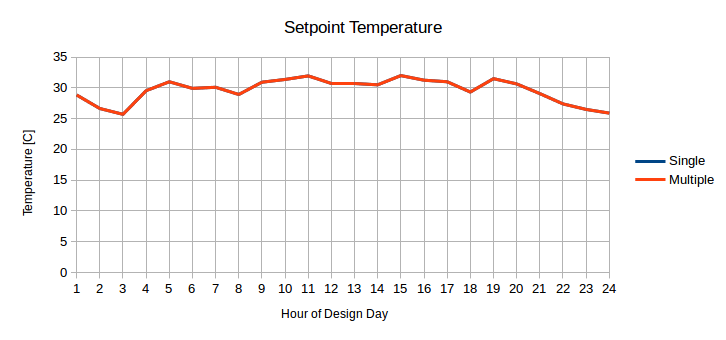
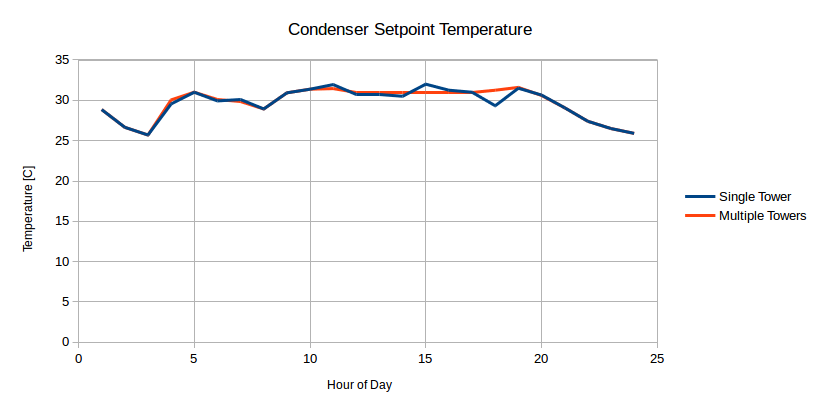
Update idf for multiple towers; update design doc with discussion for multiple towers

Changed region(s): [[0.0303, 0.0588, 1.0, 0.8824], [0.3636, 0.9118, 0.5455, 0.9706]]

diff --git a/design/FY2015/CondenserResetWithMultipleTowers.md b/design/FY2015/CondenserResetWithMultipleTowers.md
@@ -180,9 +180,27 @@ I am moving forward assuming the non-ideal condenser setpoint is working fine fo
 
 ## Modifications and testing of the ideal condenser setpoint manager
 
-I performed the source code modifications to allow multiple towers.  The changes were as anticipated and described above.  Once implemented, I modified the test file to include multiple towers and looked at the resulting setpoint.  The setpoint varies throughout the day, and because both towers are equivalent in performance characteristics, the resulting performance-based-setpoint reset is the same:
+I performed the source code modifications to allow multiple towers.  The changes were as anticipated and described above.  Once implemented, I modified the test file to include multiple towers and looked at the resulting setpoint asd well as some other values.
+
+Start with the setpoint:
 
 ![](CondenserResetWithMultipleTowers-FigureIdealCondenserSetpoint.png)
+
+Note how the setpoint differs, but overall has the same behavior during the day.  Next the tower mass flow rate:
+
+![](CondenserResetWithMultipleTowers-FigureIdealCondenserMassFlowRate.png)
+
+Note that the second tower doesn't come on until the middle of the day.  During the off-peak time, the single tower runs to meet the load.  During the peak time, both towers come to full capacity and the total adds together to be very close to the single tower.  Next the tower heat transfer rate:
+
+![](CondenserResetWithMultipleTowers-FigureIdealCondenserHeatTransfer.png)
+
+The total tower heat transfer rate is very similar during the day, with the second tower only coming on during peak hours.  Finally the tower electric power:
+
+![](CondenserResetWithMultipleTowers-FigureIdealCondenserElectricity.png)
+
+The total electricity for the two towers is lower than the single tower.  This is possibly due to a lower delta-T requirement on the towers so that the fan power can be reduced.
+
+These plots have demonstrated the difference, and that the ideal model _does_ operate multiple towers properly.
 
 ## Added unit tests
 
